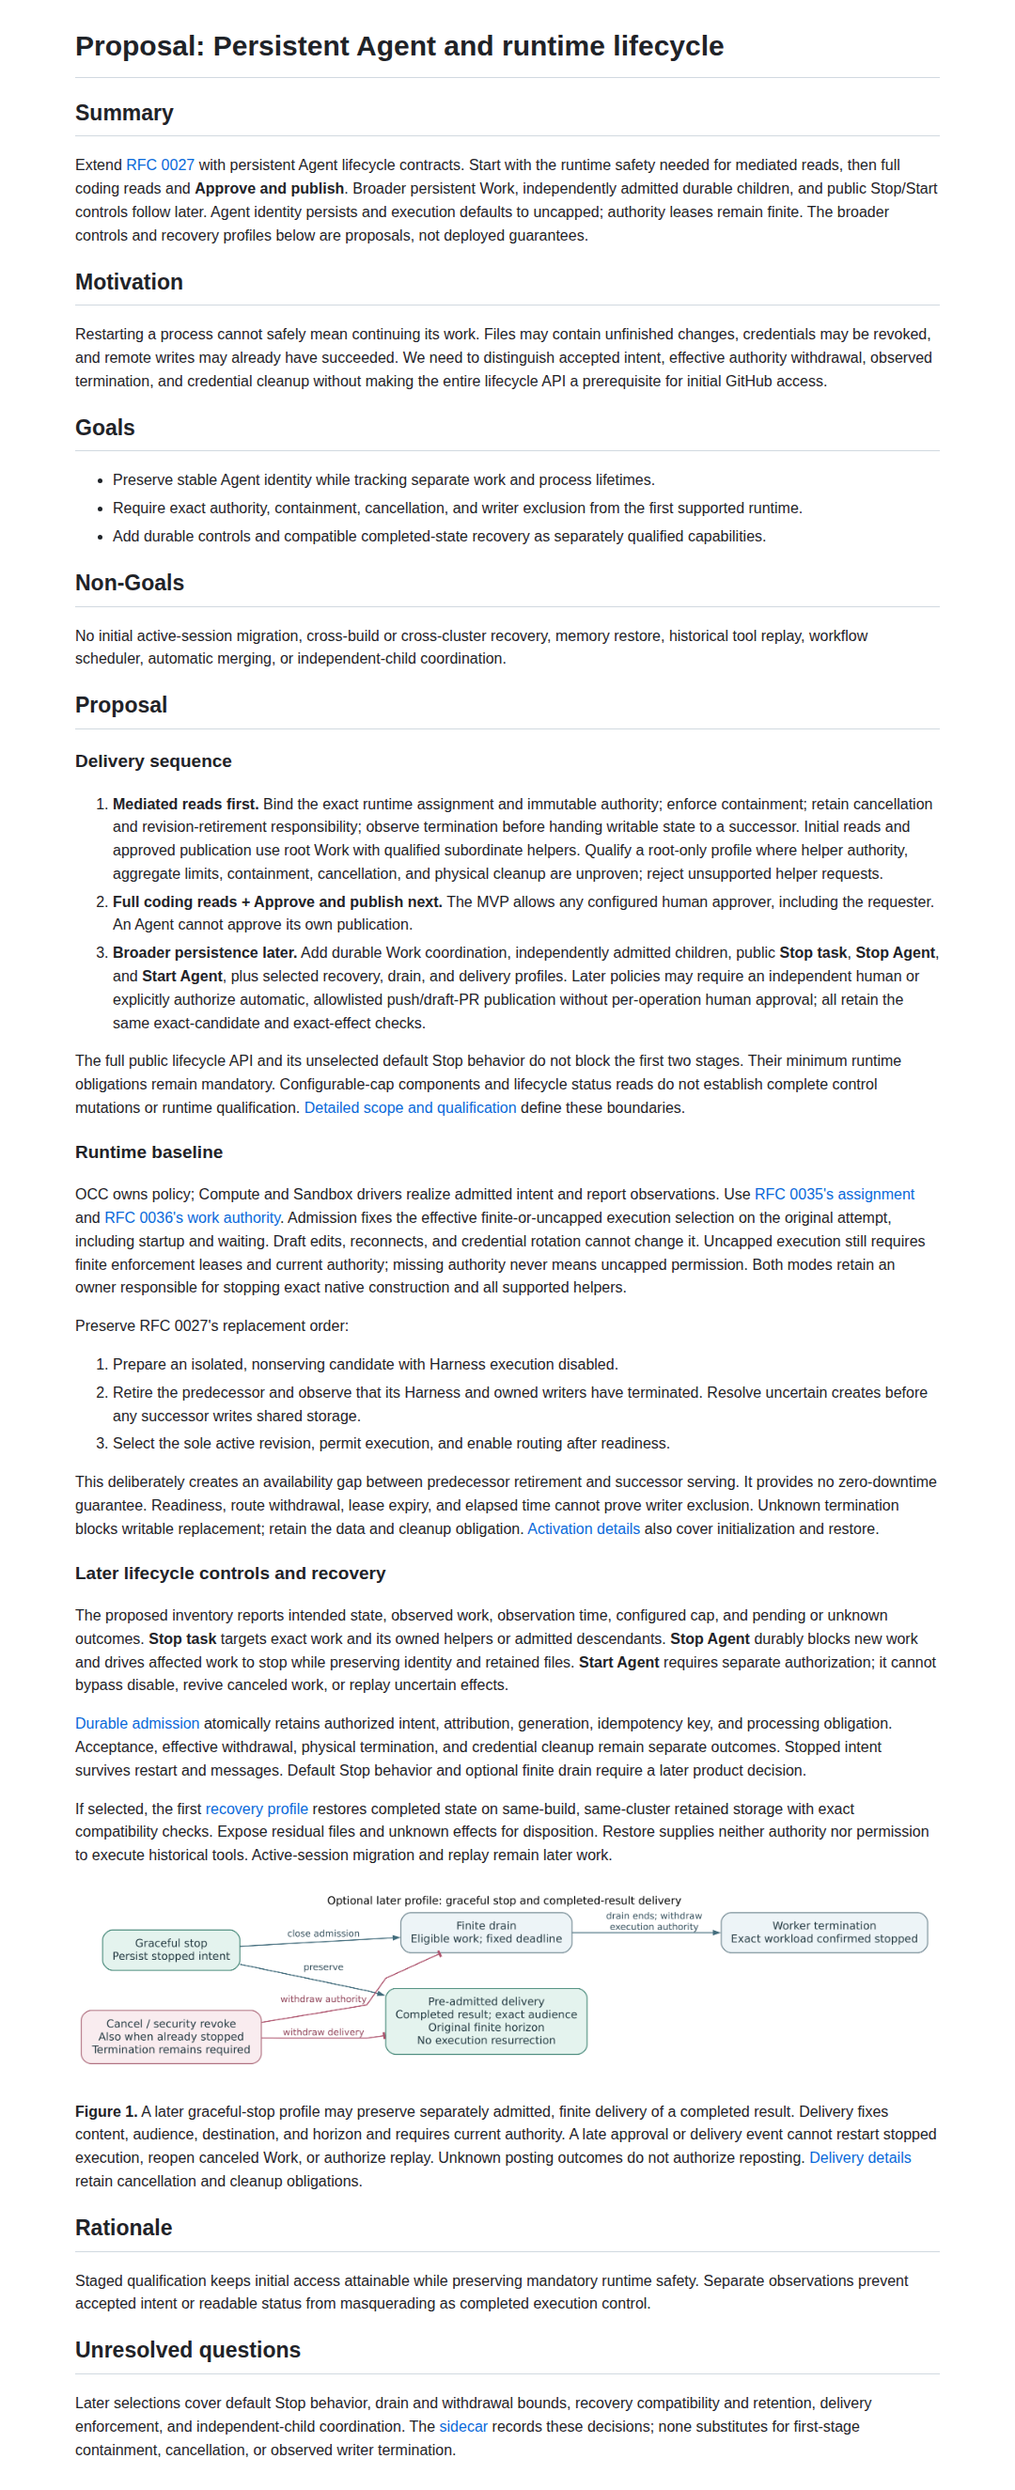
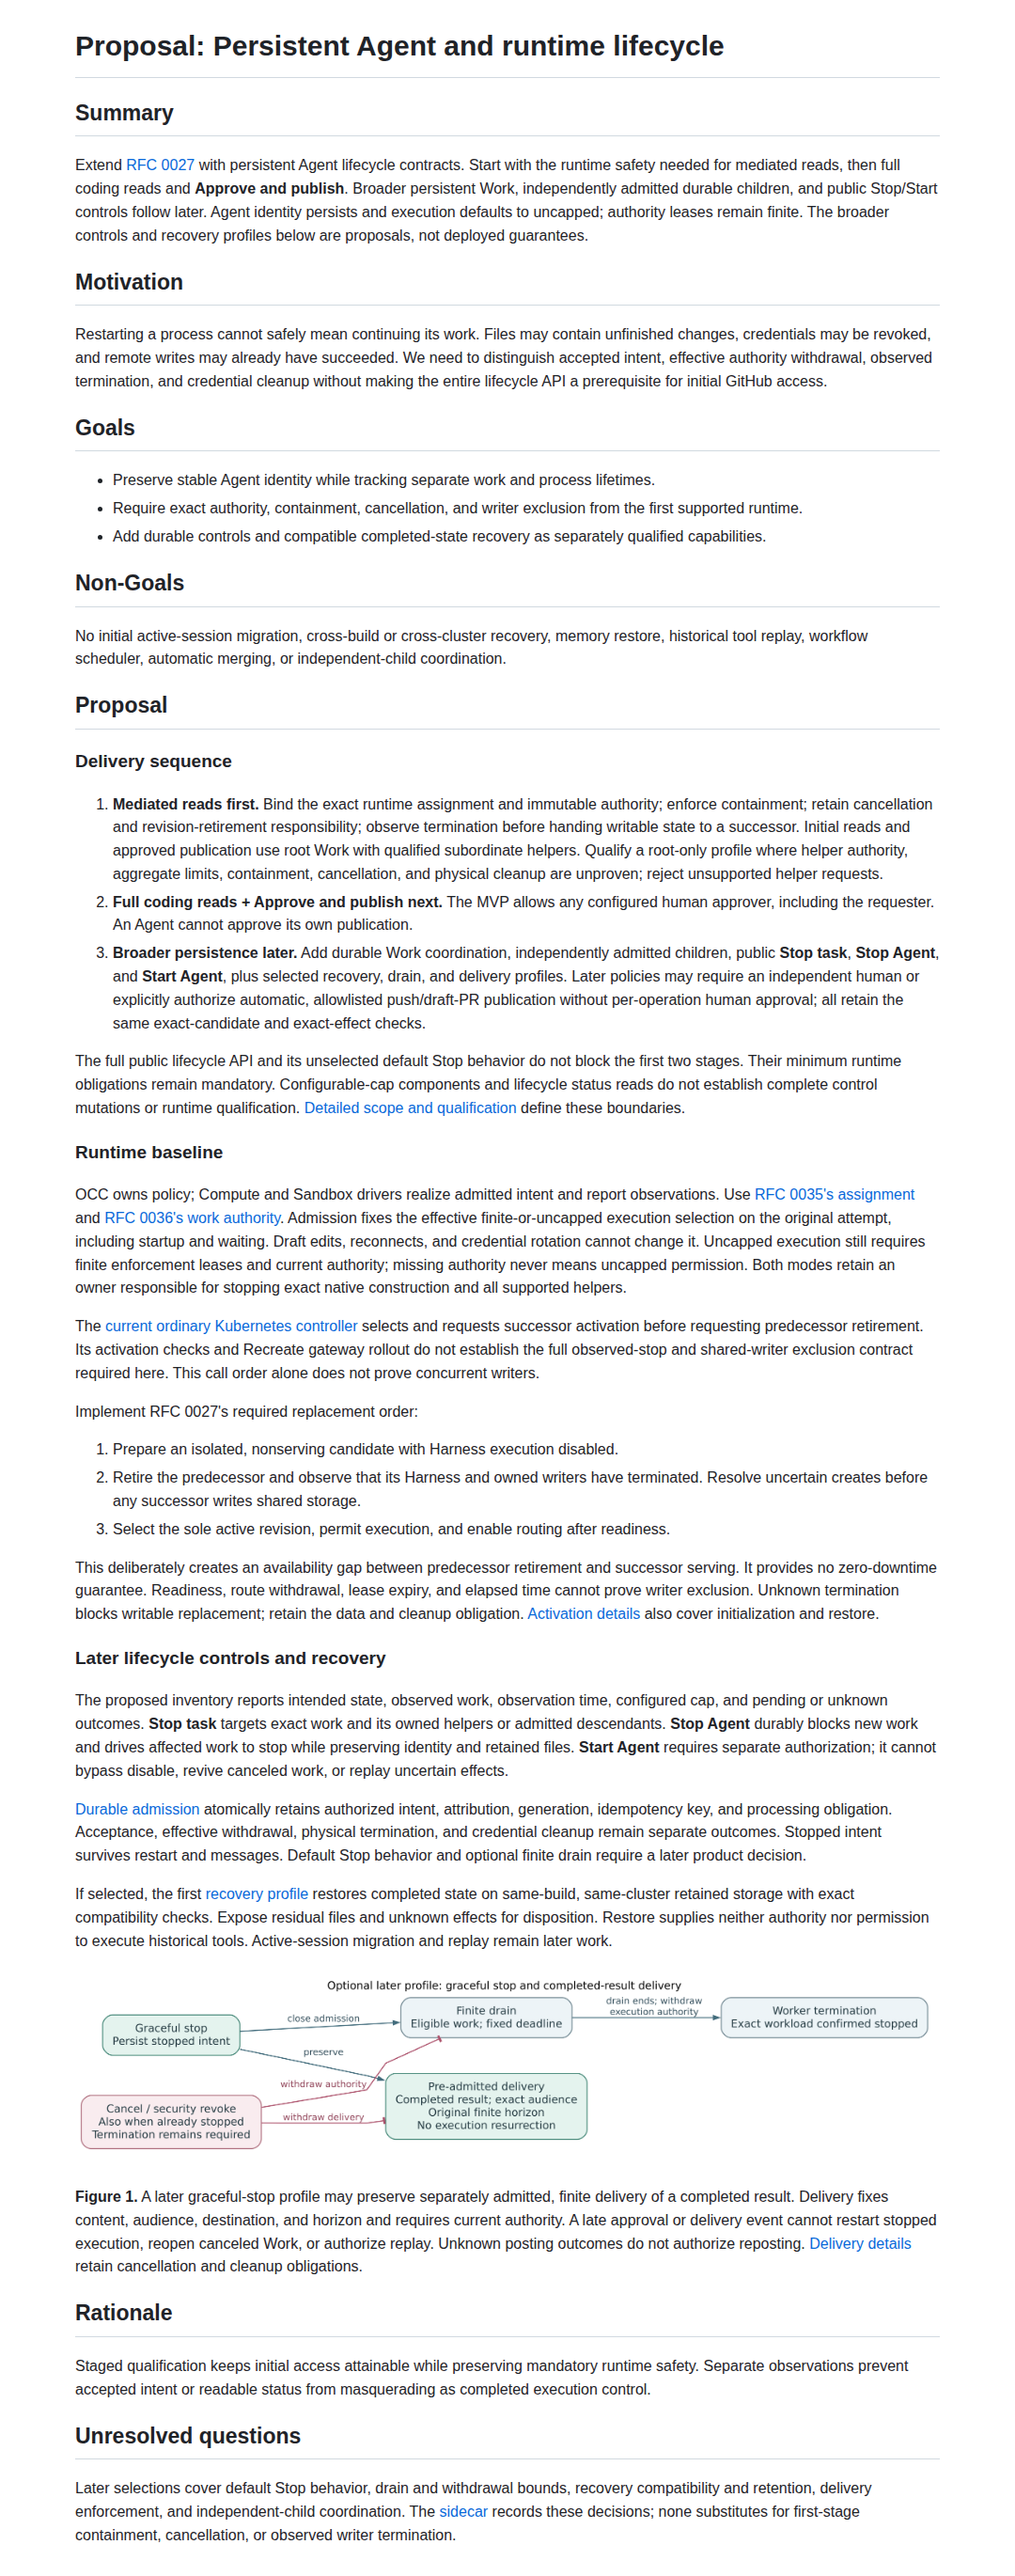
docs: distinguish current cutover from required stop barrier

Changed region(s): [[0.0611, 0.0, 0.9167, 0.9906], [0.2139, 0.0, 0.4583, 0.031], [0.6111, 0.0, 0.7028, 0.031]]

diff --git a/rfcs/0037-persistent-agent-runtime-lifecycle.md b/rfcs/0037-persistent-agent-runtime-lifecycle.md
@@ -43,7 +43,9 @@ The full public lifecycle API and its unselected default Stop behavior do not bl
 
 OCC owns policy; Compute and Sandbox drivers realize admitted intent and report observations. Use [RFC 0035's assignment](https://github.com/openclaw/rfcs/pull/69) and [RFC 0036's work authority](https://github.com/openclaw/rfcs/pull/70). Admission fixes the effective finite-or-uncapped execution selection on the original attempt, including startup and waiting. Draft edits, reconnects, and credential rotation cannot change it. Uncapped execution still requires finite enforcement leases and current authority; missing authority never means uncapped permission. Both modes retain an owner responsible for stopping exact native construction and all supported helpers.
 
-Preserve RFC 0027's replacement order:
+The [current ordinary Kubernetes controller](https://github.com/openclaw/openclaw-enterprise/blob/3eeacb85d9e8e087bc3e74d792778e4ef3123412/apps/controller/src/worker.ts#L987) selects and requests successor activation before requesting predecessor retirement. Its activation checks and Recreate gateway rollout do not establish the full observed-stop and shared-writer exclusion contract required here. This call order alone does not prove concurrent writers.
+
+Implement RFC 0027's required replacement order:
 
 1. Prepare an isolated, nonserving candidate with Harness execution disabled.
 2. Retire the predecessor and observe that its Harness and owned writers have terminated. Resolve uncertain creates before any successor writes shared storage.

diff --git a/rfcs/0037/lifecycle-spec.md b/rfcs/0037/lifecycle-spec.md
@@ -186,6 +186,8 @@ acceptance, dispatch, and observation so each outcome remains truthful.
 
 ## Activation and writer exclusion
 
+In the merged ordinary Kubernetes path, [activation](https://github.com/openclaw/openclaw-enterprise/blob/3eeacb85d9e8e087bc3e74d792778e4ef3123412/apps/controller/src/drivers/compute/kubernetes/index.ts#L1647) precedes the [retirement request](https://github.com/openclaw/openclaw-enterprise/blob/3eeacb85d9e8e087bc3e74d792778e4ef3123412/apps/controller/src/drivers/compute/kubernetes/index.ts#L1817); retirement requests Deployment deletion without observing that all predecessor writers have stopped. Activation checks and the Recreate gateway rollout do not establish this specification's complete writer-exclusion barrier.
+
 Preserve RFC 0027's activation order:
 
 1. Prepare an isolated, nonserving candidate with Harness execution disabled.
